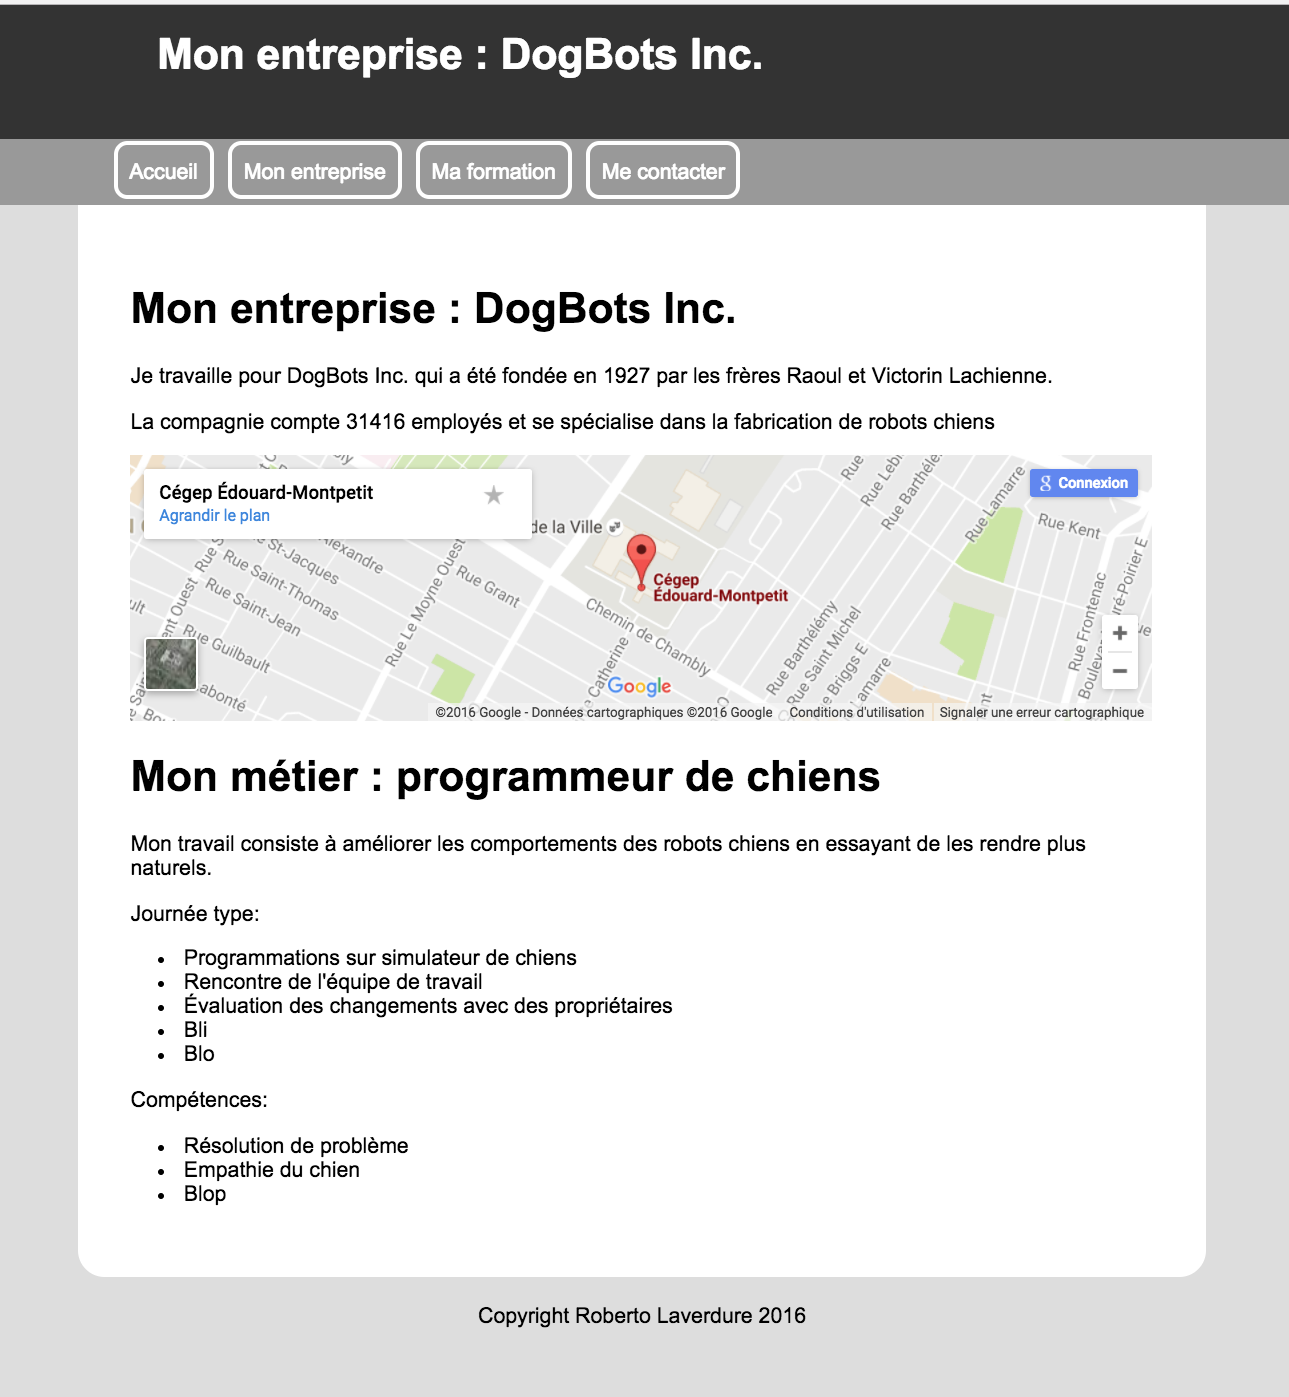
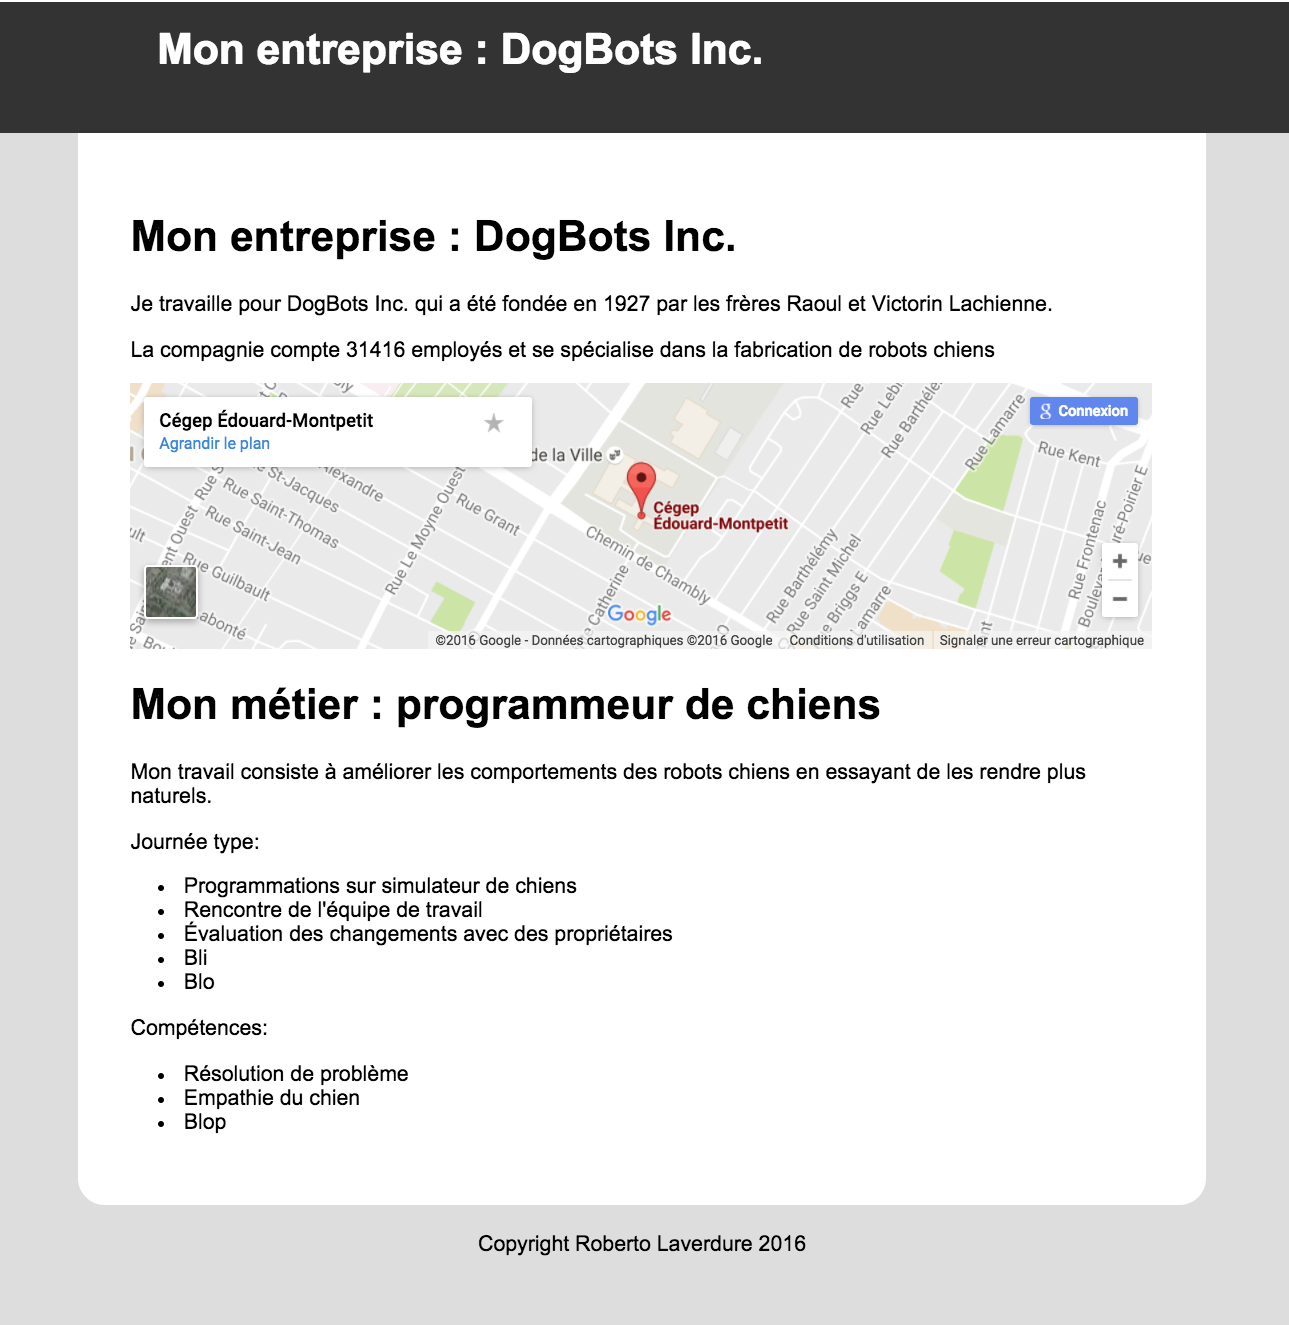
Phase 3

diff --git a/phase3.html b/phase3.html
@@ -45,7 +45,7 @@
     <div class="row">
       <div class="">
         <h3 id="s1">Phase 3</h3>
-        <div class="col-xs-3 alert">
+        <div class="col-md-3 alert">
           <strong>Site web, plusieurs pages</strong>
           <p>
             Dans la phase 3, nous allons dépasser une unique page web et mettre en place un site
@@ -54,21 +54,21 @@
           </p>
 
         </div>
-          <div class="col-xs-3 alert">
+          <div class="col-md-3 alert">
           <strong>Bootstrap</strong>
           <p>
             Nous allons apprendre à utiliser Bootstrap pour créer des pages web.
           </p>
 
         </div>
-        <div class="col-xs-3 alert ">
+        <div class="col-md-3 alert ">
           <strong>Tableaux</strong>
           <p>
             Vous mettrez en oeuvre la notion de tableau HTML en reproduisant la
             grille de cours de la voie de sortie que vous pensez emprunter.
           </p>
         </div>
-        <div class="col-xs-3 alert ">
+        <div class="col-md-3 alert ">
           <strong>Formulaire</strong>
           <p>
             Vous allez créer un formulaire qui permettra de vous envoyer un courriel
@@ -148,14 +148,6 @@
             <li>Nombre d'employés</li>
             <li>Carte Google Maps pointant la localisation de l'entreprise</li>
           </ul>
-
-          <strong>Métier</strong>
-          <p>
-            Vous devez ensuite décrire votre métier dans votre entreprise en 2 ou 3 phrases en utilisant vos mots.
-          </p>
-          <p>
-             Trouvez au minimum 2 offres d'emploi pour le même métier (potentiellement dans des compagnies différentes) et ajoutez les dans une liste html non ordonnée avec les liens.
-            </p>
             <span class="label label-warning">
             Regardez la copie d'écran final pour l'apparence attendue.
           </span>
@@ -166,63 +158,12 @@
           Entreprise:
           <ul>
             <li><span class="label label-success">1 point</span> qualité du français</li>
-            <li><span class="label label-success">4 points</span> éléments de contenu réels</li>
+            <li><span class="label label-success">1 points</span> éléments de contenu</li>
             <li><span class="label label-success">2 points</span> carte Google Maps</li>
           </ul>
-          Métier:
-          <ul>
-            <li><span class="label label-success">1 point</span> qualité du français</li>
-            <li><span class="label label-success">2 points</span> éléments de contenu réels</li>
-          </ul>
         </div>
       </div>
     </div>
-    <div class="row well">
-      <div class="">
-        <h3>
-          <span class="label label-success">4 points</span>
-          Navigation
-        </h3>
-        <div class="col-md-6 alert ">
-          <strong>Navigation</strong>
-          <p>
-            Vous devez intégrer une zone de navigation entre pages. Cette div doit se
-            situer entre top et middle.
-          </p>
-          <p>
-            Le menu doit contenir 4 éléments qui pointent chacun vers une page:
-          </p>
-          <ul>
-            <li>Accueil : pointe vers <strong>index.html</strong></li>
-            <li>Mon entreprise : pointe vers <strong>entreprise.html</strong></li>
-            <li>Ma formation : pointe vers <strong>formation.html</strong> (à venir)</li>
-            <li>Me contacter : pointe vers <strong>contact.html</strong> (à venir)</li>
-          </ul>
-          <p>
-            Chaque élément doit avoir une bordure avec des coins arrondis et de l'espace.
-            Référez-vous à l'image pour l'aspect à reproduire. Vous devez choisir vos propres couleurs.
-          </p>
-          <p>
-            Vous devez inclure le menu de navigation dans les 2 pages existantes.
-          </p>
-            <span class="label label-warning">
-            Regardez la copie d'écran final pour l'apparence attendue.
-          </span>
-        </div>
-        <div class="col-md-6 alert alert-info">
-          <strong>Pointage</strong>
-          <ul>
-            <li><span class="label label-success">1 point</span> menu dans les 2 pages</li>
-            <li><span class="label label-success">1 point</span> contient 4 liens dont 2 fonctionnels</li>
-            <li><span class="label label-success">1 point</span> la navigation est centrée dans la page</li>
-            <li><span class="label label-success">1 point</span> le style du menu est respecté</li>
-          </ul>
-        </div>
-        
-      </div>
-    </div>
-    
-    
 
     <div class="row well">
         <div class="col-md-12 alert alert-danger">
@@ -234,101 +175,51 @@
     <div class="row well">
       <div class="">
         <h3>
-          <span class="label label-success">2 points</span>
-          Debut de la page <strong>formation.html</strong>
+          <span class="label label-success">6 points</span>
+          Debut de la page <strong>contact.html</strong>
         </h3>
-        <div class="col-xs-6 alert ">
+        <div class="col-md-6 alert ">
           <strong>Barre de navigation Bootstrap</strong>
           <p>
-            Après avoir créé le fichier formation.html, vous devez y insérer les éléments
-            nécessaires pour utiliser bootstrap.
+            Après avoir créé le fichier contact.html, vous devez y insérer les éléments nécessaires pour utiliser bootstrap.
           </p>
           <p>
-            Intégrer une barre de navigation Bootstrap avec comme titre "Nom prénom : Ma formation"
-            dans la partie droite de la barre ajouter un lien pour chaque page du site
-            (accueil, entreprise, formation et contact)
+            Intégrer une barre de navigation Bootstrap avec comme titre "Nom prénom : Contact" dans la partie droite de la barre ajouter un lien pour chaque page du site
+          </p>
+          <ul>
+            <li>Accueil : pointe vers <strong>index.html</strong></li>
+            <li>Mon entreprise : pointe vers <strong>entreprise.html</strong></li>
+            <li>Contact : pointe vers <strong>contact.html</strong></li>
+          </ul>
+          <p>
+            Vous devez inclure le menu de navigation dans les 4 pages existantes.
           </p>
         </div>
 
-        <div class="col-xs-6 alert alert-info">
+        <div class="col-md-6 alert alert-info">
           <strong>Pointage</strong>
           <ul>
             <li><span class="label label-success">1 point</span> titre correct</li>
-            <li><span class="label label-success">1 point</span> liens fonctionnels</li>
+            <li><span class="label label-success">2 point</span> liens fonctionnels</li>
+            <li><span class="label label-success">2 point</span> menu dans les 4 pages</li>
+            <li><span class="label label-success">1 point</span> le style du menu est respecté</li>
           </ul>
         </div>
-        <div class="col-xs-12 alert alert-danger">
+        <div class="col-md-12 alert alert-danger">
           <strong>Copie d'écran</strong>
           <img src="img/phase4-navbar.png" style="width:100%;"/>
         </div>
 
       </div>
     </div>
-    <div class="row well">
-      <div class="">
-        <h3>
-          <span class="label label-success">12 points</span>
-          Contenu de la page <strong>formation.html</strong>
-        </h3>
-        <div class="col-xs-6 alert ">
-          <strong>Formation collégiale</strong>
-          <p>
-            Vous devez reproduire un tableau représentant les cours de la voie de sortie de
-            la technique que vous avez choisie.
-          </p>
-          <p>
-            Les cellules de la dernière colonne doivent occuper 2 lignes.
-          </p>
-          <p>
-            Vous devez attribuer les mêmes couleurs au cours du même type (programmation, CISCO etc.).
-            Les entêtes du tableau doivent être en clair sur fond foncé.
-            Vous devez également écrire les règles de styles appropriées pour les bordures et les espacements.
-          </p>
-          <strong>Formation universitaire</strong>
-          <p>
-            Vous devez produire 2 paragraphes (entre 50 et 80 mots chacun) décrivant :
-          </p>
-          <ul>
-            <li>votre université </li>
-            <li>votre programme d'études</li>
-          </ul>
-          <p>Vous devrez également intégrer des liens fonctionnels.</p>
-        </div>
 
-        <div class="col-xs-6 alert alert-info">
-          <strong>Pointage</strong>
-          <ul>
-            <li>
-              Formation collégiale:
-              <ul>
-                <li><span class="label label-success">2 points</span> pour la structure</li>
-                <li><span class="label label-success">2 points</span> pour le contenu</li>
-                <li><span class="label label-success">2 points</span> pour le style (couleurs, bordures, espacements)</li>
-              </ul>
-            </li>
-            <li>
-              Formation universitaire
-              <ul>
-                <li><span class="label label-success">2 points</span> pour le français</li>
-                <li><span class="label label-success">2 points</span> pour le respect de la longueur</li>
-                <li><span class="label label-success">2 points</span> pour les liens</li>
-              </ul>
-          </ul>
-        </div>
-        <div class="col-xs-12 alert alert-danger">
-          <strong>Copie d'écran</strong>
-          <img src="img/phase4-formation.png" style="width:100%;"/>
-        </div>
-
-      </div>
-    </div>
     <div class="row well">
       <div class="">
         <h3>
           <span class="label label-success">5 points</span>
           Page <strong>contact.html</strong> et formulaire
         </h3>
-        <div class="col-xs-6 alert">
+        <div class="col-md-6 alert">
           <strong>Champs et noms</strong>
           <p>
               Votre formulaire doit envoyer l'information avec la méthode POST à l'adresse
@@ -349,14 +240,14 @@
           </ul>
 
         </div>
-        <div class="col-xs-6 alert alert-info">
+        <div class="col-md-6 alert alert-info">
           <strong>Pointage</strong>
           <ul>
             <li><span class="label label-success">3 points</span> action, méthode, noms et types de champs</li>
             <li><span class="label label-success">2 points</span> apparence du formulaire</li>
           </ul>
         </div>
-        <div class="col-xs-12 alert alert-danger">
+        <div class="col-md-12 alert alert-danger">
           <strong>Copie d'écran</strong>
           <img src="img/phase4-contact.png" style="width:100%;"/>
         </div>

diff --git a/semaine06.html b/semaine06.html
@@ -66,7 +66,10 @@
                 <div class="col-md-6 alert alert-info">
                     <strong>Pendant la séance</strong>
                     <p>
-
+                        Vous devrez finir les exercices.
+                    </p>
+                    <p>
+                        Vous devrez poursuivre la phase 3 du projet.
                     </p>
                 </div>
                 <div class="col-md-12 well">
